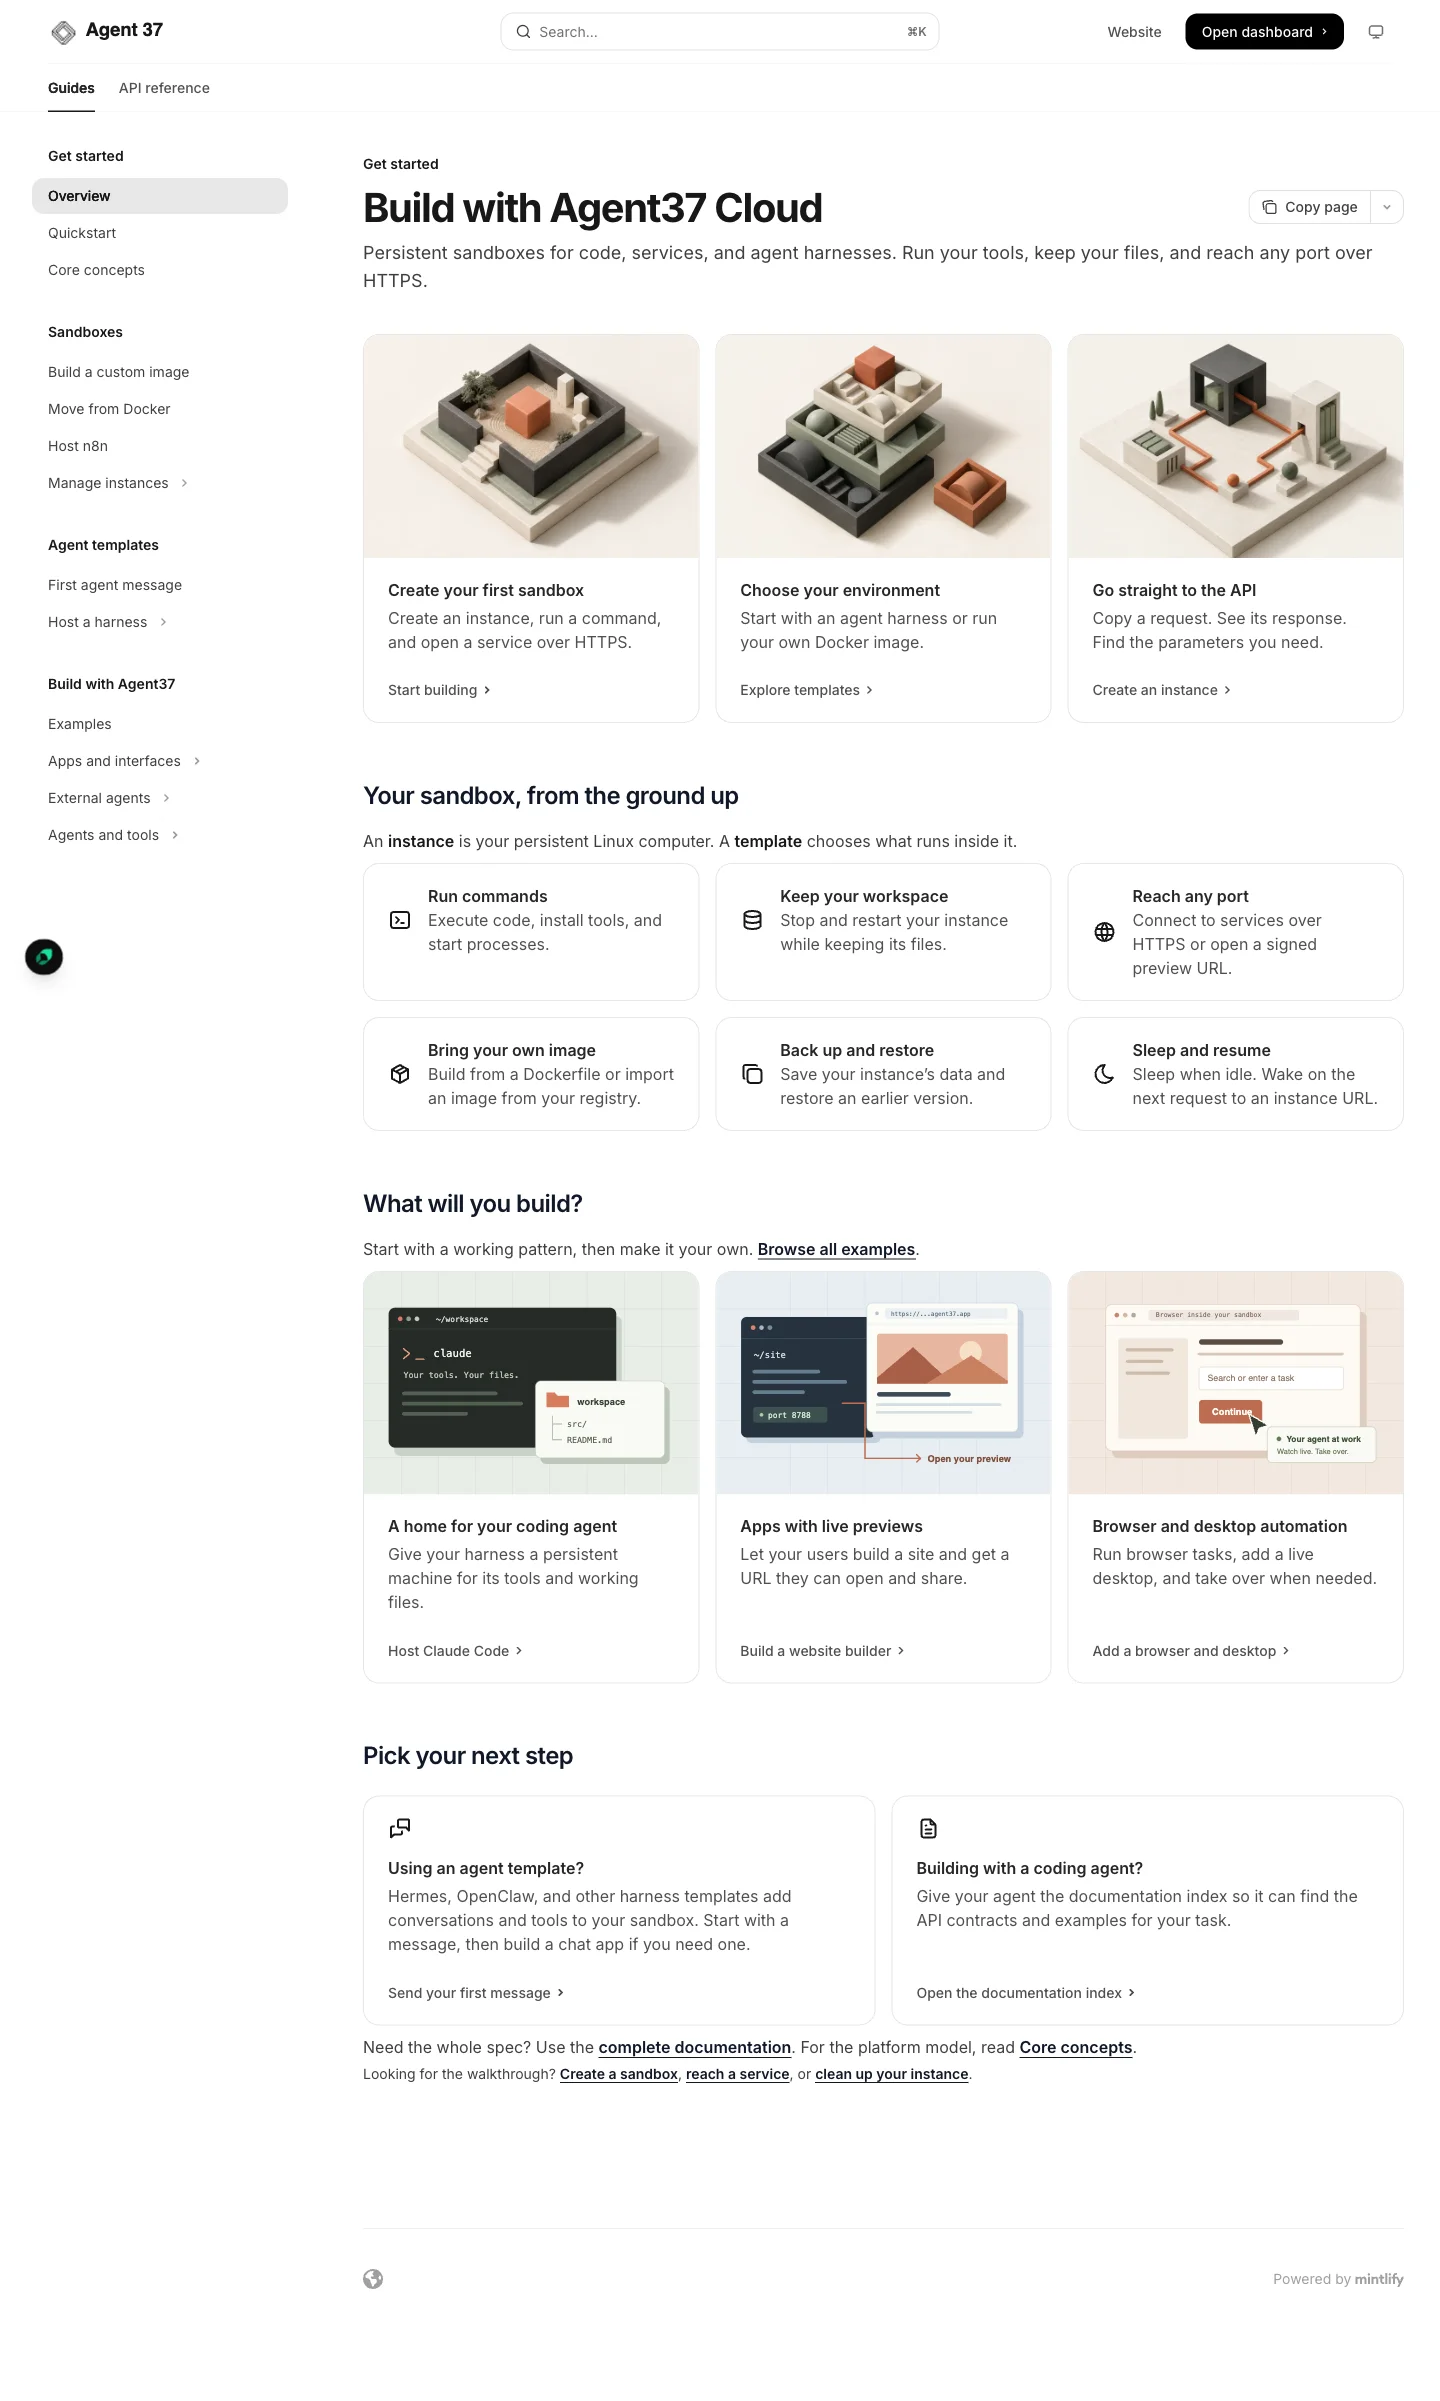
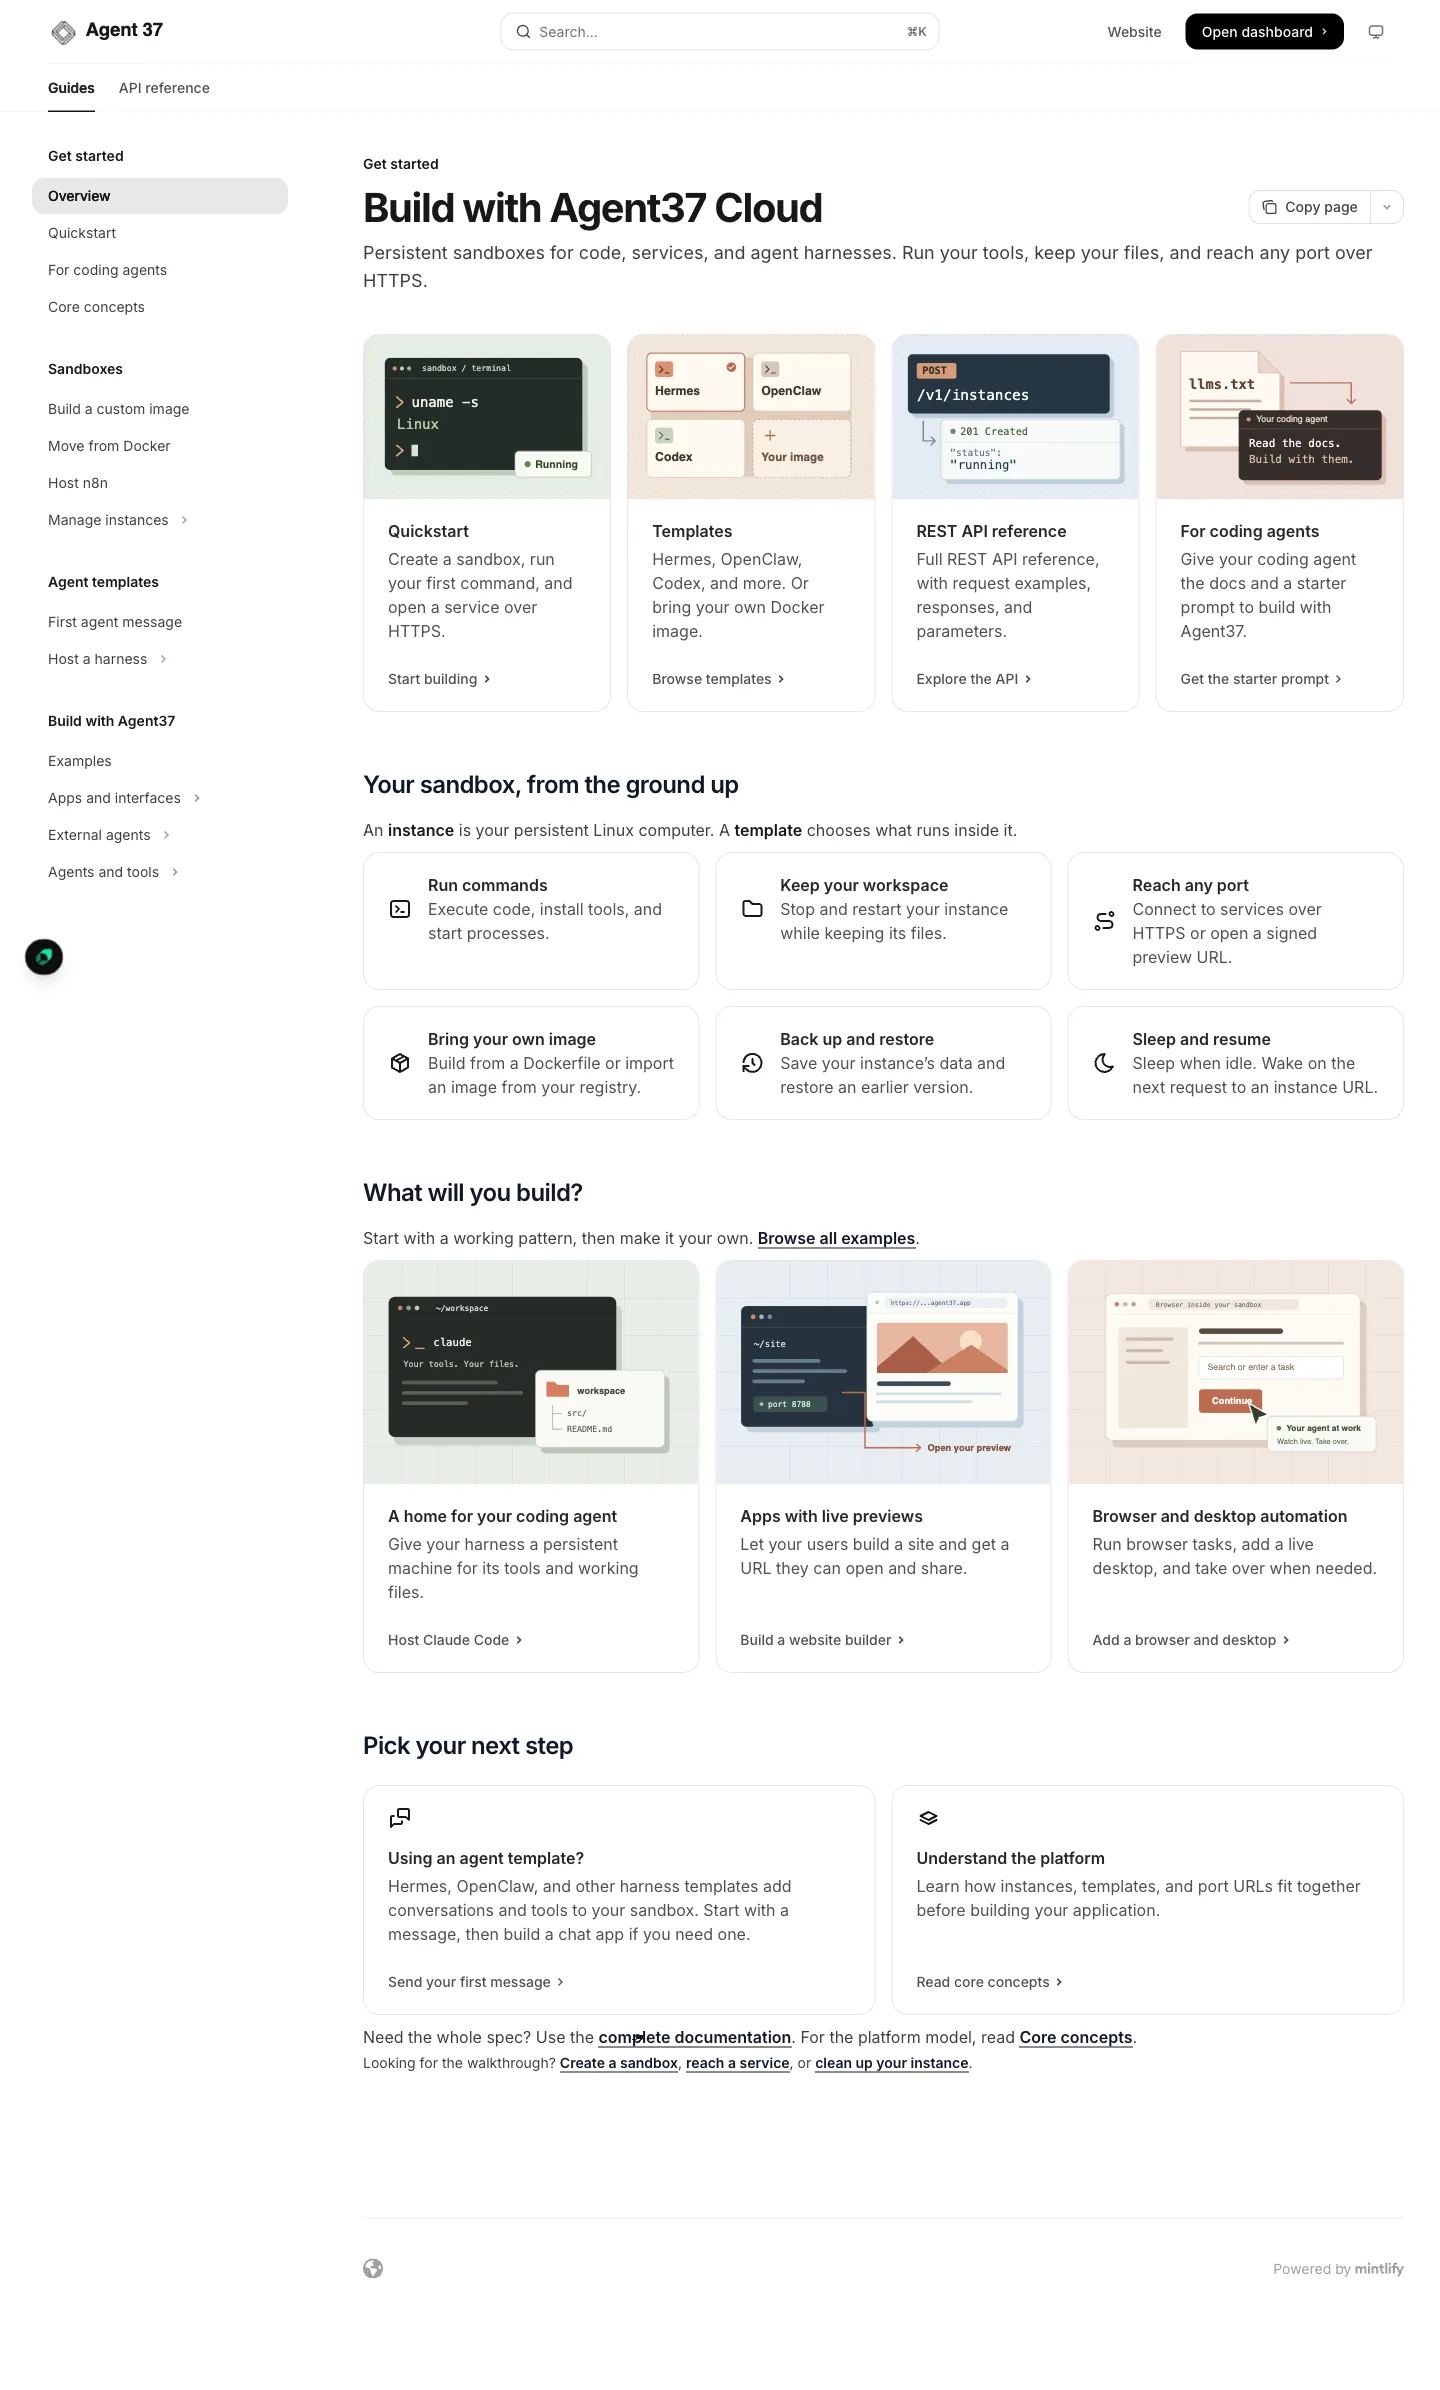
Clarify four homepage entry points with matching illustrations (#185)

diff --git a/custom.css b/custom.css
@@ -35,6 +35,15 @@
   font-size: 0.875rem;
 }
 
+/* Four clear entry points on desktop, a balanced pair of rows on tablets. */
+@container columns-container (min-width: 30rem) and (max-width: 59.99rem) {
+  @layer base {
+    .docs-home .docs-home-start .columns {
+      grid-template-columns: repeat(2, minmax(0, 1fr)) !important;
+    }
+  }
+}
+
 /* Keep cards readable when the sidebar leaves less room on smaller laptops. */
 @container columns-container (min-width: 30rem) and (max-width: 49.99rem) {
   /* Layered important rules override Mintlify's important grid utilities. */
@@ -43,17 +52,17 @@
       grid-template-columns: repeat(2, minmax(0, 1fr)) !important;
     }
 
-    .docs-home .columns:has([data-component-part="card-image"]) {
+    .docs-home > .columns:has([data-component-part="card-image"]) {
       grid-template-columns: minmax(0, 1fr) !important;
     }
 
   }
 
-  .docs-home .card:has([data-component-part="card-image"]) {
+  .docs-home > .columns .card:has([data-component-part="card-image"]) {
     flex-direction: row;
   }
 
-  .docs-home [data-component-part="card-image"] {
+  .docs-home > .columns [data-component-part="card-image"] {
     width: 42%;
     flex-shrink: 0;
   }

diff --git a/images/home/README.md b/images/home/README.md
@@ -1,18 +1,15 @@
 # Homepage artwork
 
-Original artwork for the Agent37 Cloud documentation homepage, generated with the built-in imagegen tool on October 9, 2026. The WebP files are compressed versions of the generated originals; composition and colors are unchanged.
+Original SVG illustrations for the Agent37 Cloud documentation homepage. The entry cards use the same editable vector style as the use-case cards, with concrete subjects instead of abstract objects.
 
-The SVG use-case illustrations are authored vectors. They illustrate workflows, not screenshots of a product interface. Card text carries the same information without relying on the images.
+| Asset | Subject |
+| --- | --- |
+| `quickstart.svg` | The quickstart's `uname -s` command and Linux output in a sandbox terminal. |
+| `templates.svg` | A selection of templates alongside a slot for your own image. This is an illustrative subset, not the complete catalog. |
+| `api-reference.svg` | `POST /v1/instances` and a fragment of its `201 Created` response. |
+| `agent-docs.svg` | The documentation index passed to a coding agent. |
+| `coding-agent.svg` | A coding agent with persistent working files. |
+| `live-preview.svg` | A service reached through a preview URL. |
+| `browser.svg` | Browser automation with a live desktop. |
 
-## sandbox.webp
-
-Create one polished editorial illustration for an Agent37 Cloud developer documentation navigation card. Landscape 3:2 composition, no text, no letters, no logos, no UI, no border, no watermark. Art direction: a beautifully composed miniature architectural still life, tactile matte clay and lightly grained paper materials, precise isometric geometry, soft studio daylight from upper left, sculptural shapes and long soft shadows. Sophisticated contemporary technical publishing, physical model photography blended with clean 3D illustration. Restrained palette: warm ivory background #f4f1eb, charcoal, burnished terracotta/coral #d76b4f, desaturated sage and pale stone. Make the objects substantial and richly detailed, filling 75 percent of the frame with breathing room. Avoid generic glossy AI art, purple gradients, robot faces, floating code, circuit boards and neon. All three cards belong to one coherent series. Subject: a small self-contained square architectural sandbox on an ivory plinth, an open-top charcoal enclosure with a bright terracotta cube at its heart, fine sand-like ground, a miniature stepped walkway entering on one side, three simple upright cream blocks like a miniature city, and a thin pale sage tile beneath. The visual metaphor is a persistent environment you can build inside. Hero cube has subtle beveled edges, shadow falls toward lower right. Camera looking down at 35 degrees. Background uninterrupted warm ivory.
-
-## templates.webp
-
-Create one polished editorial illustration for an Agent37 Cloud developer documentation navigation card. Landscape 3:2 composition, no text, no letters, no logos, no UI, no border, no watermark. Art direction: a beautifully composed miniature architectural still life, tactile matte clay and lightly grained paper materials, precise isometric geometry, soft studio daylight from upper left, sculptural shapes and long soft shadows. Sophisticated contemporary technical publishing, physical model photography blended with clean 3D illustration. Restrained palette: warm ivory background #f4f1eb, charcoal, burnished terracotta/coral #d76b4f, desaturated sage and pale stone. Make the objects substantial and richly detailed, filling 75 percent of the frame with breathing room. Avoid generic glossy AI art, purple gradients, robot faces, floating code, circuit boards and neon. All three cards belong to one coherent series. Subject: a compact sculptural assembly of three thick square modular trays, slightly offset in an elegant stepped stack, each tray holding a different arrangement of simple architectural blocks. Bottom layer charcoal, middle layer pale sage, top layer warm cream with one terracotta cube. One small matching module sits beside the stack ready to slot in. The visual metaphor is choosing and composing your own software environment. Clear, balanced silhouette. Camera looking down at 35 degrees. Background uninterrupted warm ivory.
-
-## api.webp
-
-Create one polished editorial illustration for an Agent37 Cloud developer documentation navigation card. Landscape 3:2 composition, no text, no letters, no logos, no UI, no border, no watermark. Art direction: a beautifully composed miniature architectural still life, tactile matte clay and lightly grained paper materials, precise isometric geometry, soft studio daylight from upper left, sculptural shapes and long soft shadows. Sophisticated contemporary technical publishing, physical model photography blended with clean 3D illustration. Restrained palette: warm ivory background #f4f1eb, charcoal, burnished terracotta/coral #d76b4f, desaturated sage and pale stone. Make the objects substantial and richly detailed, filling 75 percent of the frame with breathing room. Avoid generic glossy AI art, purple gradients, robot faces, floating code, circuit boards and neon. All three cards belong to one coherent series. Subject: three small architectural stations on a flat square ivory platform, connected by precisely bent terracotta rails that travel across its surface like elegant physical routing paths. Main station is a charcoal open cube, two other stations are pale stone blocks of different heights with sage insets; tiny coral ball at one junction. A tactile, clean, minimal model of connections and control. Precise right angle tracks and generous negative space, all geometry physically grounded. Camera looking down at 35 degrees. Background uninterrupted warm ivory.
-
+These are conceptual illustrations, not screenshots of product interfaces. Card text carries the same information without relying on the images. Keep API snippets aligned with their reference pages and keep labels legible at card size.

diff --git a/AGENTS.md b/AGENTS.md
@@ -19,9 +19,9 @@ Two API planes, one `sk_live_` key, and the reference nav mirrors that split:
 
 Navigation has two tabs, **Guides** and **API reference**:
 
-- **Guides** starts with the illustrated overview (`index`), `quickstart`, and `concepts`, then sandbox management, images, agent templates, and application examples. The homepage uses native image cards and workflow illustrations to help readers choose a starting point. The quickstart creates an instance, runs a command, and reaches a service. Chat is an optional capability of agent templates, introduced in `agent-quickstart`; do not make it a prerequisite for using a sandbox.
+- **Guides** starts with the illustrated overview (`index`), `quickstart`, `for-agents`, and `concepts`, then sandbox management, images, agent templates, and application examples. The homepage has four entry cards: Quickstart, Templates, REST API reference, and For coding agents. Use concrete workflow illustrations that match each destination. The quickstart creates an instance, runs a command, and reaches a service. Chat is an optional capability of agent templates, introduced in `agent-quickstart`; do not make it a prerequisite for using a sandbox.
 - **Build with Agent37** is task-shaped: what you can build, usually pointing at a forkable repo. `examples` indexes those guides, so a new use-case guide needs a row there. Keep mechanics in the reference pages they link to.
-- **API reference** separates Hosting API, Agent API, and Shared reference (`billing`, `errors`, and the desktop protocol). Instance operations live in `agents-api/instances/`, one endpoint per page; `instances.mdx` retains the overview and old section anchors. Extended lifecycle, sizing, environment, auto-sleep, and backup explanations live in the `instance-*.mdx` guides.
+- **API reference** opens on `agents-api/overview`, an index of the Hosting API, Agent API, and Shared reference (`billing`, `errors`, and the desktop protocol). Instance operations live in `agents-api/instances/`, one endpoint per page; `instances.mdx` retains the overview and old section anchors. Extended lifecycle, sizing, environment, auto-sleep, and backup explanations live in the `instance-*.mdx` guides.
 
 The API reference is **hand-authored MDX**; there is no OpenAPI spec to regenerate from. Endpoint pages use `<ParamField>`/`<ResponseField>` and show curl, Python, and Node examples. Single-operation pages use `api` frontmatter with a full URL and put code blocks directly inside `<RequestExample>` and `<ResponseExample>` before the field reference; do not nest a `<CodeGroup>` inside either example component. If a page is renamed or moved, add a redirect in `docs.json` so old URLs keep working (several exist already). Keep old section anchors when splitting a resource page.
 
